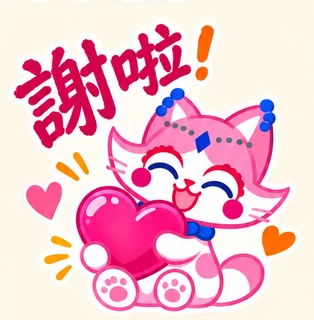
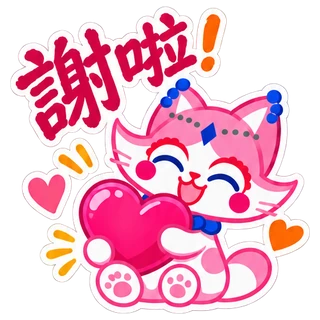
Center Family chat prompts and refresh transparent sticker art

diff --git a/js/lf-chat.js b/js/lf-chat.js
@@ -3,7 +3,7 @@
      lf_chat_messages/{id}  { uid, text, img, stk, replyTo:{id,name,text}, mentions:[uid], reacts:{uid:emoji}, unsent, ts }
      lf_chat_profiles/{uid} { name, av, email, at }（本人寫）   lf_chat_reads/{uid} { at }（本人寫，算已讀）
      lf_chat_phones/{uid}   { phone }（Superuser 寫）           lf_chat_meta/pin { id, name, text }（公告）
-   用法：const chat = lfChatInit(rootEl, { db, toast, tabDot }); chat.auth(user, role); chat.show(true/false) */
+   用法：const chat = lfChatInit(rootEl, { db, tabDot }); chat.auth(user, role); chat.show(true/false) */
 (function () {
   const AV = [['cat', '小貓', '#f8c8d8', '#e58aa8'], ['bear', '小熊', '#e8c9a0', '#b98a5a'], ['rab', '兔兔', '#eef0f6', '#f2a7c0'], ['dog', '小狗', '#f3dcb5', '#a8774a'],
     ['pen', '企鵝', '#cfe3f7', '#2f3a4a'], ['chk', '小雞', '#fde9a0', '#f0a640'], ['frg', '青蛙', '#c9eab0', '#5a9a3a'], ['pnd', '熊貓', '#f4f4f4', '#333333']];
@@ -34,15 +34,23 @@
     }
     return `<svg viewBox="0 0 64 64" width="100%" height="100%" aria-hidden="true"><rect width="64" height="64" fill="${b}"/>${e}${feat}</svg>`;
   }
-  const STICKER_PACKS = ['Pinky', 'Blues'];
-  const STICKER_LABELS = ['早安', 'Good night', '謝啦！', 'OK!', '辛苦了', 'You got this!'];
-  const STICKERS = new Map(STICKER_PACKS.flatMap(pack =>
-    STICKER_LABELS.map((label, index) => [pack.toLowerCase() + '-' + (index + 1), pack + ' · ' + label])));
+  const PINKY_LABELS = ['早安', 'Good night', '謝啦！', 'OK!', '辛苦了', 'You got this!'];
+  const BLUES_LABELS = ['Good Morning!', '等等我！', 'High Five!', '抱一下', 'On my way!', '掰掰！'];
+  const STICKER_PACKS = {
+    Pinky: PINKY_LABELS.map((_, i) => 'pinky-' + (i + 1)),
+    Blues: BLUES_LABELS.map((_, i) => 'blues-new-' + (i + 1))
+  };
+  const STICKERS = new Map([
+    ...STICKER_PACKS.Pinky.map((id, i) => [id, 'Pinky · ' + PINKY_LABELS[i]]),
+    ...STICKER_PACKS.Blues.map((id, i) => [id, 'Blues · ' + BLUES_LABELS[i]]),
+    // Keep the intended greeting on Blues stickers sent before the redesign.
+    ...PINKY_LABELS.map((label, i) => ['blues-' + (i + 1), 'Blues · ' + label])
+  ]);
   const LEGACY_STICKERS = AV.flatMap(([key, label]) =>
     MOODS.map(mood => ({ id: key + ':' + mood, label })));
   const RECENT_STICKERS_KEY = 'lf-chat-recent-stickers';
   function sticker(id) {
-    if (STICKERS.has(id)) return `<img src="assets/chat-stickers/${id}.webp" alt="${STICKERS.get(id)}" draggable="false">`;
+    if (STICKERS.has(id)) return `<img src="assets/chat-stickers/${id}.webp?v=2" alt="${STICKERS.get(id)}" draggable="false">`;
     const [key, mood] = id.split(':');
     return face(key, mood, true);
   }
@@ -77,7 +85,7 @@
   }
 
   window.lfChatInit = function (root, opt) {
-    const db = opt.db, toast = opt.toast || (m => alert(m)), FV = firebase.firestore.FieldValue;
+    const db = opt.db, FV = firebase.firestore.FieldValue;
     let me = null, role = '', unsubs = [], visible = false, needPick = false, denied = false;
     let msgs = [], members = {}, phones = {}, reads = {}, pin = null, myRead = 0, firstOpen = true, reply = null, menuOpen = false;
     const hidden = new Set(JSON.parse(localStorage.getItem('linfamily_chat_hidden') || '[]'));
@@ -115,6 +123,15 @@
 
     // ---------- 版面：手機全寬貼底；寬螢幕（≥640，跟桌面引擎同一個分界）是浮在 Family 分頁上的卡片，可左右移動、調寬窄 ----------
     const box = root.firstElementChild, wideQ = matchMedia('(min-width:640px)');
+    const notice = h('<div class="lfc-notice" role="status" aria-live="polite"></div>');
+    box.append(notice);
+    let noticeTimer, closeOverlay;
+    function toast(message) {
+      notice.textContent = message;
+      clearTimeout(noticeTimer);
+      noticeTimer = setTimeout(() => { notice.textContent = ''; }, 3500);
+    }
+
     // 留言板位置：先用這台裝置上次的位置（重新整理不會先跳到預設位置再移過去），雲端讀到再校正
     const LAY_KEY = 'lf_chat_layout';
     let lay = { x: null, w: 420 }, layLoaded = false, collapsed = false;
@@ -330,12 +347,12 @@
         ${['貼圖', 'Emoji'].map(tab => `<button type="button" data-sticker-tab="${tab}" aria-pressed="${tab === stickerTab}">${tab}</button>`).join('')}
         <button type="button" class="lfc-stk-close" aria-label="關閉">×</button>
       </div>
-      ${isEmoji ? '' : `<div class="lfc-stk-packs">${['最近使用', ...STICKER_PACKS].map(pack =>
+      ${isEmoji ? '' : `<div class="lfc-stk-packs">${['最近使用', ...Object.keys(STICKER_PACKS)].map(pack =>
         `<button type="button" data-sticker-pack="${pack}" aria-pressed="${pack === stickerPack}">${pack}</button>`).join('')}</div>`}
       <div class="lfc-stk-grid${isEmoji ? ' is-emoji' : ''}"></div>`;
       const grid = stickerBox.querySelector('.lfc-stk-grid');
       const ids = stickerPack === '最近使用' ? recentStickers :
-        [...STICKERS.keys()].filter(id => id.startsWith(stickerPack.toLowerCase() + '-'));
+        STICKER_PACKS[stickerPack];
       const items = isEmoji ? LEGACY_STICKERS : ids.map(id => ({ id, label: STICKERS.get(id) }));
       if (!items.length) grid.append(h('<p>還沒有最近使用的貼圖，選 Pinky 或 Blues 開始。</p>'));
       for (const { id, label } of items) {
@@ -418,7 +435,9 @@
     list.addEventListener('touchend', () => { clearTimeout(pressT); pressT = null; });
     list.addEventListener('contextmenu', e => { const b = e.target.closest('.lfc-bub'); if (!b) return; e.preventDefault(); if (!document.querySelector('.lfc-pop')) actions(b.closest('.lfc-row').dataset.id); });
     $('lfcPin').addEventListener('click', e => { if (e.target.id !== 'lfcUnpin' && pin) go(pin.id); });
-    $('lfcUnpin').onclick = () => { if (confirm('取消這則公告？')) db.collection('lf_chat_meta').doc('pin').set({ id: '' }); };
+    $('lfcUnpin').onclick = () => confirmInChat('取消這則公告？', '取消公告', () => {
+      db.collection('lf_chat_meta').doc('pin').set({ id: '' }).catch(() => toast('無法取消公告'));
+    });
     // 搜尋聊天內容（用分頁列的放大鏡）：打字時標出符合的訊息；Enter 跳到最新一則，再按 Enter 或 ˄ 往舊的找，˅ 往新的
     let findQ = '', findHits = [], findI = -1;
     function findMark() {
@@ -443,11 +462,45 @@
     }
 
     // ---------- 彈出層 ----------
-    function overlay(html, sheet) {
-      const ov = h(`<div class="lfc-ov${sheet ? ' lfc-sheet' : ''}"><div class="lfc-card">${html}</div></div>`);
-      const close = () => { ov.remove(); menuOpen = false; };
+    function overlay(html) {
+      if (closeOverlay) closeOverlay(false);
+      const previousFocus = document.activeElement;
+      const ov = h(`<div class="lfc-ov"><div class="lfc-card" role="dialog" aria-modal="true" tabindex="-1">${html}</div></div>`);
+      const card = ov.firstElementChild;
+      const close = (restoreFocus = true) => {
+        if (closeOverlay !== close) return;
+        ov.remove();
+        closeOverlay = null;
+        menuOpen = false;
+        if (restoreFocus && box.contains(previousFocus)) previousFocus.focus();
+      };
+      const q = selector => ov.querySelector(selector);
       ov.addEventListener('click', e => { if (e.target === ov || e.target.closest('[data-close]')) close(); });
-      document.body.append(ov); menuOpen = true; return { ov, close, q: s => ov.querySelector(s) };
+      ov.addEventListener('keydown', e => {
+        if (e.key === 'Escape') { e.stopPropagation(); close(); }
+        if (e.key !== 'Tab') return;
+        const controls = [...card.querySelectorAll('button, input, a[href]')];
+        const first = controls[0], last = controls[controls.length - 1];
+        if (e.shiftKey && (document.activeElement === first || document.activeElement === card)) {
+          e.preventDefault(); last?.focus();
+        } else if (!e.shiftKey && document.activeElement === last) {
+          e.preventDefault(); first?.focus();
+        }
+      });
+      box.append(ov);
+      menuOpen = true;
+      closeOverlay = close;
+      card.focus({ preventScroll: true });
+      return { ov, close, q };
+    }
+    function confirmInChat(message, action, onConfirm) {
+      const o = overlay(`<p id="lfcConfirmMessage">${esc(message)}</p><div class="lfc-confirm-buttons">
+        <button type="button" class="lfc-gbtn" data-close>取消</button>
+        <button type="button" class="lfc-pbtn" data-confirm>${esc(action)}</button>
+      </div>`);
+      o.q('[role=dialog]').setAttribute('aria-labelledby', 'lfcConfirmMessage');
+      o.q('[data-close]').focus();
+      o.q('[data-confirm]').onclick = () => { o.close(); onConfirm(); };
     }
     const MI = d => `<svg viewBox="0 0 24 24" width="20" height="20" fill="none" stroke="currentColor" stroke-width="1.7" stroke-linecap="round" stroke-linejoin="round" aria-hidden="true">${d}</svg>`;
     const MENU = {
@@ -496,12 +549,16 @@
         if (k === 'copy') navigator.clipboard.writeText(m.text).then(() => toast('已複製'), () => toast('無法複製'));
         if (k === 'share') share(m);
         if (k === 'note' || k === 'album') toast(MENU[k][0] + '之後開放');
-        if (k === 'pin') db.collection('lf_chat_meta').doc('pin').set({ id, name: prof(m.uid).name, text: m.text.slice(0, 120) }).then(() => toast('已設為公告'));
-        if (k === 'unsend' && confirm('收回這則訊息？所有人都會看不到。')) {
+        if (k === 'pin') db.collection('lf_chat_meta').doc('pin').set({ id, name: prof(m.uid).name, text: m.text.slice(0, 120) }).then(() => toast('已設為公告'), () => toast('無法設為公告'));
+        if (k === 'unsend') confirmInChat('收回這則訊息？所有人都會看不到。', '收回', () => {
           ref.update({ unsent: true, text: FV.delete(), img: FV.delete(), stk: FV.delete(), replyTo: FV.delete(), mentions: FV.delete(), reacts: FV.delete() }).catch(() => toast('無法收回'));
-          if (pin && pin.id === id) db.collection('lf_chat_meta').doc('pin').set({ id: '' });
-        }
-        if (k === 'del' && confirm('刪除這則訊息？只有你自己看不到，其他人還看得到。')) { hidden.add(id); try { localStorage.setItem('linfamily_chat_hidden', JSON.stringify([...hidden].slice(-500))); } catch (_) {} render(); }
+          if (pin && pin.id === id) db.collection('lf_chat_meta').doc('pin').set({ id: '' }).catch(() => toast('無法取消公告'));
+        });
+        if (k === 'del') confirmInChat('刪除這則訊息？只有你自己看不到，其他人還看得到。', '刪除', () => {
+          hidden.add(id);
+          try { localStorage.setItem('linfamily_chat_hidden', JSON.stringify([...hidden].slice(-500))); } catch {}
+          render();
+        });
       });
     }
     function profile(uid) {
@@ -515,7 +572,7 @@
     }
     function memberList() {
       const ids = Object.keys(members).sort((a, b) => (a === me.uid ? -1 : b === me.uid ? 1 : members[a].name.localeCompare(members[b].name)));
-      const o = overlay(`<h3 style="margin:0 0 8px">成員 (${ids.length})</h3>${ids.map(uid => `<button class="lfc-mem" data-uid="${esc(uid)}"><span class="lfc-av">${face(members[uid].av)}</span>${esc(members[uid].name)}${uid === me.uid ? '（我）' : ''}</button>`).join('')}<button class="lfc-gbtn" data-close>關閉</button>`, true);
+      const o = overlay(`<h3 style="margin:0 0 8px">成員 (${ids.length})</h3>${ids.map(uid => `<button class="lfc-mem" data-uid="${esc(uid)}"><span class="lfc-av">${face(members[uid].av)}</span>${esc(members[uid].name)}${uid === me.uid ? '（我）' : ''}</button>`).join('')}<button class="lfc-gbtn" data-close>關閉</button>`);
       o.ov.addEventListener('click', e => { const b = e.target.closest('.lfc-mem'); if (b) { o.close(); profile(b.dataset.uid); } });
     }
     function avatarPicker(first) {
@@ -560,7 +617,12 @@
       search, findNext: () => findStep(1),
       show(on) {
         visible = on; dot(); document.body.classList.toggle('lf-tab-family', on);
-        if (!on) { closeStickers(); return; }
+        if (!on) {
+          closeStickers();
+          if (closeOverlay) closeOverlay(false);
+          clearTimeout(noticeTimer); notice.textContent = '';
+          return;
+        }
         firstOpen = true; myRead = me ? (reads[me.uid] || 0) : 0;
         if (collapsed) setCollapsed(false);
         fit(); render(); markRead();

diff --git a/css/lf-chat.css b/css/lf-chat.css
@@ -92,10 +92,12 @@ html.dark .lfc-list { background:color-mix(in srgb, var(--sage) 4%, transparent)
 #lfcSend.on { color:var(--pine); }
 .lfc-empty { text-align:center; color:var(--muted); font-size:13.5px; margin:40px 12px; }
 /* 彈出層（個人卡片、成員、頭像、長按選單、看照片） */
-.lfc-ov { position:fixed; inset:0; z-index:90; background:rgba(0,0,0,.45); display:flex; align-items:center; justify-content:center; padding:16px; }
-.lfc-ov.lfc-sheet { align-items:flex-end; padding:0; }
-.lfc-card { background:var(--surface); color:var(--text); border-radius:18px; width:min(320px, 100%); padding:22px 18px 16px; text-align:center; box-shadow:var(--shadow); max-height:86vh; overflow-y:auto; }
-.lfc-sheet .lfc-card { width:min(480px, 100%); border-radius:18px 18px 0 0; padding:14px 14px calc(14px + env(safe-area-inset-bottom)); text-align:left; }
+.lfc-ov { position:absolute; box-sizing:border-box; inset:0; z-index:90; background:rgba(0,0,0,.45); display:flex; align-items:center; justify-content:center; padding:16px; }
+.lfc-card { background:var(--surface); color:var(--text); border-radius:18px; width:min(320px, 100%); padding:22px 18px 16px; text-align:center; box-shadow:var(--shadow); box-sizing:border-box; max-height:100%; overflow-y:auto; }
+.lfc-confirm-buttons { display:flex; gap:8px; margin-top:14px; }
+.lfc-confirm-buttons button { flex:1; margin:0; }
+.lfc-notice { position:absolute; z-index:91; top:50%; left:50%; transform:translate(-50%, -50%); width:max-content; max-width:calc(100% - 32px); box-sizing:border-box; padding:10px 16px; border:1px solid var(--border); border-radius:12px; background:var(--surface); color:var(--text); box-shadow:var(--shadow); text-align:center; overflow-wrap:anywhere; pointer-events:none; }
+.lfc-notice:empty { opacity:0; }
 .lfc-big { width:92px; height:92px; border-radius:50%; overflow:hidden; margin:0 auto; }
 .lfc-card h3 { margin:10px 0 2px; font-size:18px; }
 .lfc-card p { margin:0; color:var(--muted); font-size:13.5px; }

diff --git a/index.html b/index.html
@@ -4,7 +4,7 @@
   <meta charset="UTF-8">
   <link rel="stylesheet" href="https://clc-dx04.pages.dev/js/dashboard-widgets.css?v=11">
   <link rel="stylesheet" href="css/lf-todos.css?v=9">
-  <link rel="stylesheet" href="css/lf-chat.css?v=14">
+  <link rel="stylesheet" href="css/lf-chat.css?v=15">
   <link rel="stylesheet" href="https://clc-dx04.pages.dev/shared/desktop/desktop.v1.css?v=12">
   <link rel="stylesheet" href="https://clc-dx04.pages.dev/shared/toolbar/toolbar.v1.css?v=1">
   <script src="https://linfamily.pages.dev/js/scrollbars.js?v=20261118-1"></script>
@@ -434,7 +434,7 @@
   <script src="js/dashboard-todos.js"></script>
   <script src="https://clc-dx04.pages.dev/js/dashboard-widgets.js?v=11"></script>
   <script src="js/lf-todos.js?v=8"></script>
-  <script src="js/lf-chat.js?v=17"></script>
+  <script src="js/lf-chat.js?v=18"></script>
   <script>
   window.addEventListener('DOMContentLoaded', function () {
     'use strict';
@@ -845,7 +845,7 @@
       onEnter: () => { if (tb.tab() === 'family') return window.lfChatApi && window.lfChatApi.findNext(); const id = applySearch().find(x => apps.some(a => a.id === x)); const a = id && desk.element(id) && desk.element(id).querySelector('a[href]'); if (a) location.href = a.href; }
     });
     // 家庭留言板（Family 分頁）：有新訊息時 Family 分頁標籤亮紅點
-    window.lfChatApi = db && window.lfChatInit ? window.lfChatInit($('lfChat'), { db, toast, onBack: () => tb.setTab('apps', true), tabDot: on => {
+    window.lfChatApi = db && window.lfChatInit ? window.lfChatInit($('lfChat'), { db, onBack: () => tb.setTab('apps', true), tabDot: on => {
       const b = Array.from($('lfToolbar').querySelectorAll('button, [role="tab"]')).find(x => x.textContent.trim() === 'Family');
       if (!b) return; let d = b.querySelector('.lfc-tabdot');
       if (on && !d) { b.style.position = 'relative'; b.append(Object.assign(document.createElement('span'), { className: 'lfc-tabdot' })); }
